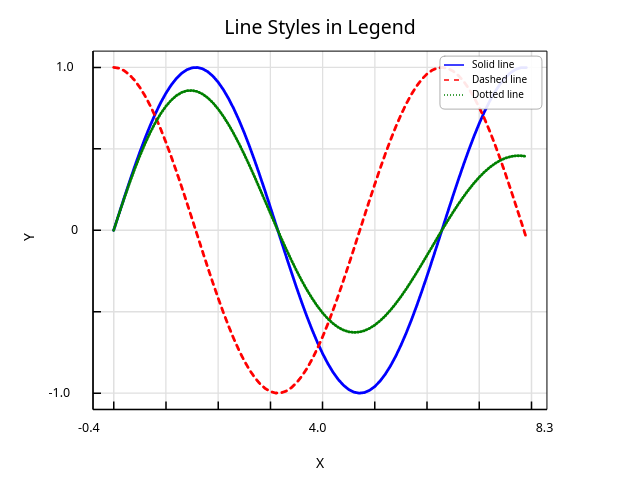
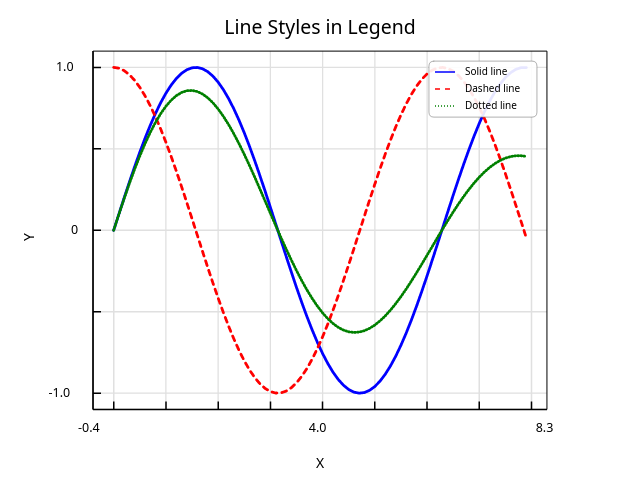
Improve legend spacing and make background fully opaque
Spacing improvements:
- Increase handle_text_pad: 0.8 → 1.0 (better gap between handle and text)
- Increase label_spacing: 0.5 → 0.7 (more vertical space between items)
- Increase border_pad: 0.4 → 0.6 (more padding inside frame)
- Increase border_axes_pad: 0.5 → 1.0 (more margin from axes)

Fixes:
- Fix unbalanced top/bottom padding by calculating height as
  n*font + (n-1)*spacing instead of n*(font+spacing)
- Adjust text vertical alignment multiplier from 0.35 to 0.3

Background:
- Change default from 90% opacity to fully opaque white
- Users can still specify transparency via Color::new_rgba()

Changed region(s): [[0.6562, 0.0938, 0.8438, 0.25]]

diff --git a/src/core/legend.rs b/src/core/legend.rs
@@ -331,13 +331,13 @@ pub struct LegendSpacing {
 impl Default for LegendSpacing {
     fn default() -> Self {
         Self {
-            handle_length: 2.0,
-            handle_height: 0.7,
-            handle_text_pad: 0.8,
-            label_spacing: 0.5,
-            border_pad: 0.4,
-            border_axes_pad: 0.5,
-            column_spacing: 2.0,
+            handle_length: 2.0,      // 20px at 10pt - good handle length
+            handle_height: 0.7,      // 7px at 10pt - marker/line height
+            handle_text_pad: 1.0,    // 10px at 10pt - gap between handle and text
+            label_spacing: 0.7,      // 7px at 10pt - vertical gap between items
+            border_pad: 0.6,         // 6px at 10pt - padding inside frame
+            border_axes_pad: 1.0,    // 10px at 10pt - gap from plot axes
+            column_spacing: 2.0,     // 20px at 10pt - gap between columns
         }
     }
 }
@@ -398,7 +398,7 @@ impl Default for LegendFrame {
     fn default() -> Self {
         Self {
             visible: true,
-            background: Color::new_rgba(255, 255, 255, 230), // 90% opaque white
+            background: Color::WHITE, // Fully opaque white (users can set transparency if needed)
             border_color: Some(Color::new_rgba(128, 128, 128, 200)),
             border_width: 0.8,
             corner_radius: 0.0,
@@ -572,11 +572,14 @@ impl Legend {
 
         // Calculate dimensions based on columns
         let items_per_col = (items.len() + self.columns - 1) / self.columns;
-        let item_height = self.font_size + spacing_px.label_spacing;
 
         let content_width = item_width * self.columns as f32
             + (self.columns.saturating_sub(1)) as f32 * spacing_px.column_spacing;
-        let content_height = items_per_col as f32 * item_height;
+
+        // Content height: n rows with spacing BETWEEN items (not after the last one)
+        // This ensures equal top and bottom padding inside the frame
+        let content_height = items_per_col as f32 * self.font_size
+            + (items_per_col.saturating_sub(1)) as f32 * spacing_px.label_spacing;
 
         // Add title height if present
         let title_height = if self.title.is_some() {
@@ -785,9 +788,11 @@ mod tests {
         let spacing = LegendSpacing::default();
         let pixels = spacing.to_pixels(10.0);
 
-        assert!((pixels.handle_length - 20.0).abs() < 0.001);
-        assert!((pixels.label_spacing - 5.0).abs() < 0.001);
-        assert!((pixels.border_pad - 4.0).abs() < 0.001);
+        assert!((pixels.handle_length - 20.0).abs() < 0.001);  // 2.0 * 10
+        assert!((pixels.label_spacing - 7.0).abs() < 0.001);   // 0.7 * 10
+        assert!((pixels.border_pad - 6.0).abs() < 0.001);      // 0.6 * 10
+        assert!((pixels.handle_text_pad - 10.0).abs() < 0.001); // 1.0 * 10
+        assert!((pixels.border_axes_pad - 10.0).abs() < 0.001); // 1.0 * 10
     }
 
     #[test]

diff --git a/src/render/skia.rs b/src/render/skia.rs
@@ -1936,9 +1936,10 @@ impl SkiaRenderer {
                 // Draw handle
                 self.draw_legend_handle(item, col_x, row_y, &spacing)?;
 
-                // Draw label
+                // Draw label - vertically centered with handle
                 let text_x = col_x + spacing.handle_length + spacing.handle_text_pad;
-                self.draw_text(&item.label, text_x, row_y + legend.font_size * 0.35, legend.font_size, legend.text_color)?;
+                // Use 0.3 multiplier for better vertical centering with marker/line handles
+                self.draw_text(&item.label, text_x, row_y + legend.font_size * 0.3, legend.font_size, legend.text_color)?;
 
                 row_y += legend.font_size + spacing.label_spacing;
             }
